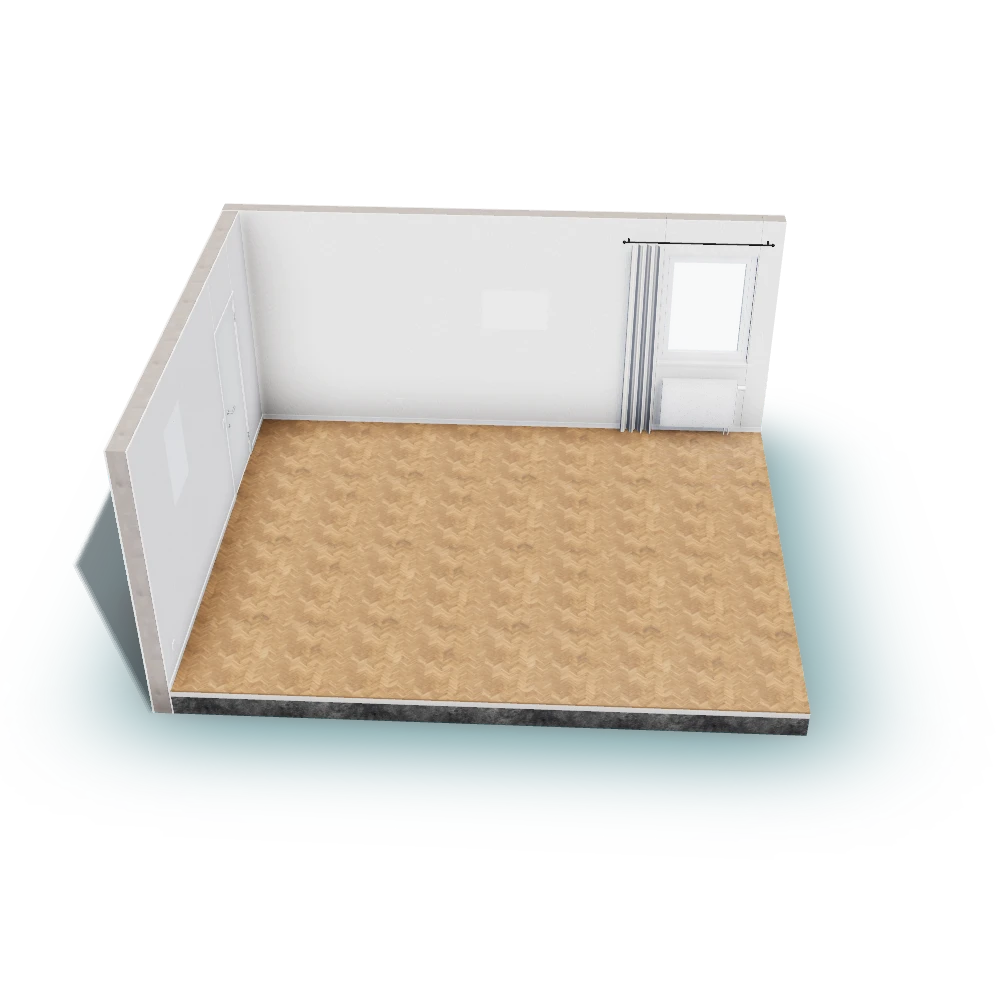
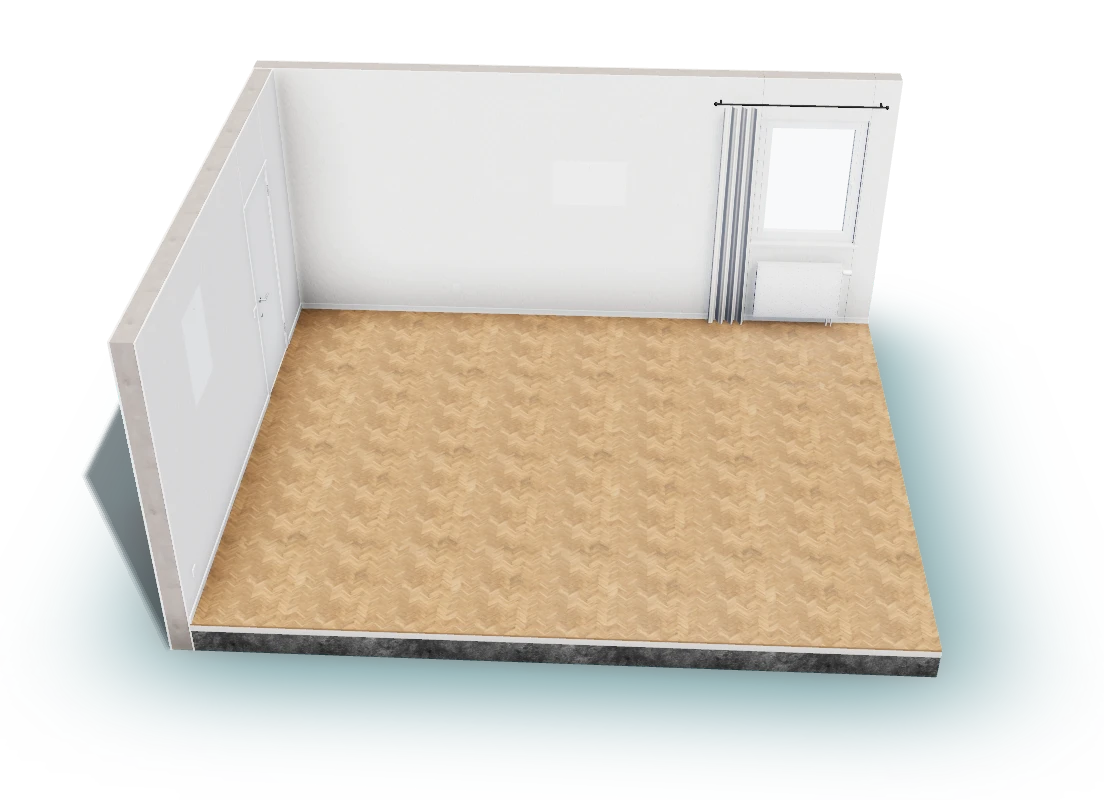
Phones: room and van larger and centred in the hero
The phone camera path is composed for a 1.38:1 band and centred on the room
and van (about 6 % of the width to spare either side, measured on screen), so
they fill the band instead of sitting small in it. Phones now keep the
composed viewpoint and widen the lens on taller bands rather than backing the
camera off, so every phone shows the same, centred picture. While the van
leaves, the view pulls back so it stays whole until it turns away.

The phone posters are re-rendered at the same 1104 x 800 framing, so the
loading image matches the live scene instead of a small square.

diff --git a/components/hero-scene/sequence.js b/components/hero-scene/sequence.js
@@ -486,8 +486,7 @@ export async function buildSequence({ scene, truck, mobile }) {
   // on a table: the room and the van stay whole in the frame while it is loaded and
   // shut, then the view settles on the empty room as the van leaves. One path for each
   // layout, each composed for a 30° lens on a band of its own aspect (2.4:1 on laptops,
-  // square on phones); on any other band the camera backs off along its line of sight
-  // until the same view fits.
+  // 1.38:1 on phones); on any other band the view is fitted to it (lens and fit, below).
   // Keys: look-at point, distance, azimuth (0 = straight from the front) and elevation.
   const key = (t, look, dist, az, el) => ({ t, look, pos: look.clone().add(V(Math.sin(az) * Math.cos(el), Math.sin(el), Math.cos(az) * Math.cos(el)).multiplyScalar(dist)) });
   const paths = {
@@ -499,16 +498,29 @@ export async function buildSequence({ scene, truck, mobile }) {
       key(0.88, V(2.2, 1.0, -2.2), 15.1, 0, 0.55),
       key(1, V(-2.8, 0.9, -1.8), 11.0, -0.05, 0.6),
     ] },
-    narrow: { aspect: 1.0, keys: [
-      key(0, V(-1.0, 1.2, -3.3), 26.0, 0.14, 0.6),
-      key(0.72, V(-0.9, 1.2, -3.3), 25.0, 0.12, 0.61),
-      key(0.8, V(-0.6, 1.3, -3.1), 24.5, 0.16, 0.58),
-      key(0.88, V(-0.7, 1.3, -3.1), 24.5, 0.14, 0.58),
-      key(1, V(-3.0, 0.9, -1.8), 19.5, 0.05, 0.62),
+    // Phones: the room and van centred with about 6 % of the width to spare either side
+    // (measured on screen), then the empty room on its own. While the van leaves (it
+    // drives away from the camera, then turns right), the view pulls back so the van
+    // stays whole until it turns away, and below the copy.
+    narrow: { aspect: 1.38, keys: [
+      key(0, V(-1.6, 1.2, -3.3), 18.8, 0.14, 0.6),
+      key(0.72, V(-1.7, 1.2, -3.3), 18.35, 0.12, 0.61),
+      key(0.8, V(-1.55, 1.3, -3.1), 18.65, 0.16, 0.58),
+      key(0.88, V(-1.7, 1.4, -4.2), 20.6, 0.14, 0.58),
+      key(0.94, V(0.6, 1.2, -4.0), 26.1, 0.1, 0.6),
+      key(1, V(-3.2, 0.9, -1.8), 13.5, 0.05, 0.62),
     ] },
   };
   const path = mobile ? paths.narrow : paths.wide;
   const halfTan = Math.tan(THREE.MathUtils.degToRad(15));
+  // The lens for a band of this aspect. Laptops: 30° (38° on squarer bands), and the
+  // camera backs off until the composed view fits (fit, below). Phones keep the composed
+  // viewpoint and widen the lens instead: backing off changes the perspective, and with
+  // it the framing, so this way every phone sees the same picture, only cropped taller
+  // or shorter.
+  const lens = (aspect) => mobile
+    ? 2 * THREE.MathUtils.radToDeg(Math.atan(halfTan * Math.max(1, path.aspect / aspect)))
+    : aspect < 1.3 ? 38 : 30;
 
   const tmpQ = new THREE.Quaternion(), wob = new THREE.Quaternion(), tan = V(0, 0, 0), side = V(0, 0, 0), look = V(0, 0, 0);
   function evaluate(t, camera) {
@@ -548,5 +560,5 @@ export async function buildSequence({ scene, truck, mobile }) {
     return { cleared: t >= TL.cleared };
   }
 
-  return { evaluate, items, slots, plan };
+  return { evaluate, lens, items, slots, plan };
 }

diff --git a/components/hero-scene/scene.js b/components/hero-scene/scene.js
@@ -178,7 +178,7 @@ export function mountHeroScene({ stage, base = "" }) {
     // the room width; --lift, --room and --room-max in hero.css) and the view extends
     // past it, so nothing is clipped.
     let dirty = true;
-    const lens = (aspect) => { camera.aspect = aspect; camera.fov = aspect < 1.3 ? 38 : 30; };
+    const lens = (aspect) => { camera.aspect = aspect; camera.fov = seq.lens(aspect); };
     function resize() {
       const w = canvas.clientWidth || innerWidth, h = canvas.clientHeight || innerHeight;
       renderer.setSize(w, h, false);

diff --git a/preview-3d/README.md b/preview-3d/README.md
@@ -74,8 +74,8 @@ The scene stands on the page's teal like a model on a table, seen from above and
   - **Camera:** a slow, continuous dolly like a filmed shot, on a spline that never stops between keys.
   - **Flights:** each piece follows one smooth curve with a sine ease, through the middle of the truck's rear opening.
 - **Phones:** smaller textures, and never the high level.
-- **Framing:** one camera path per layout, composed for a band of its own shape (2.4 times as wide as it is tall on laptops, square on phones). On any other band the camera backs off along its line of sight until the same view fits.
-- **Fallbacks:** reduced motion shows a before/after pair of stills rendered from the scene where the scene would be. The posters (`static/fallback-*.webp`, transparent, a square `-m` pair for the phone layout) stand in while the scene loads and when WebGL is missing.
+- **Framing:** one camera path per layout, composed for a band of its own shape (2.4 times as wide as it is tall on laptops, 1.38 on phones). On any other band, laptops back the camera off along its line of sight until the same view fits; phones keep the viewpoint and widen the lens, so every phone shows the same picture (the room and van centred, about 6 % of the width to spare either side), only cropped taller or shorter.
+- **Fallbacks:** reduced motion shows a before/after pair of stills rendered from the scene where the scene would be. The posters (`static/fallback-*.webp`, transparent, a `-m` pair for the phone layout, 1104 × 800 like the phone view) stand in while the scene loads and when WebGL is missing.
 - **Test hook:** `window.__preview` exposes `setTime(t)` (0–1), `shoot(t, w, h)` for transparent stills, the packing plan and a camera override.
 
 ## Known limits
